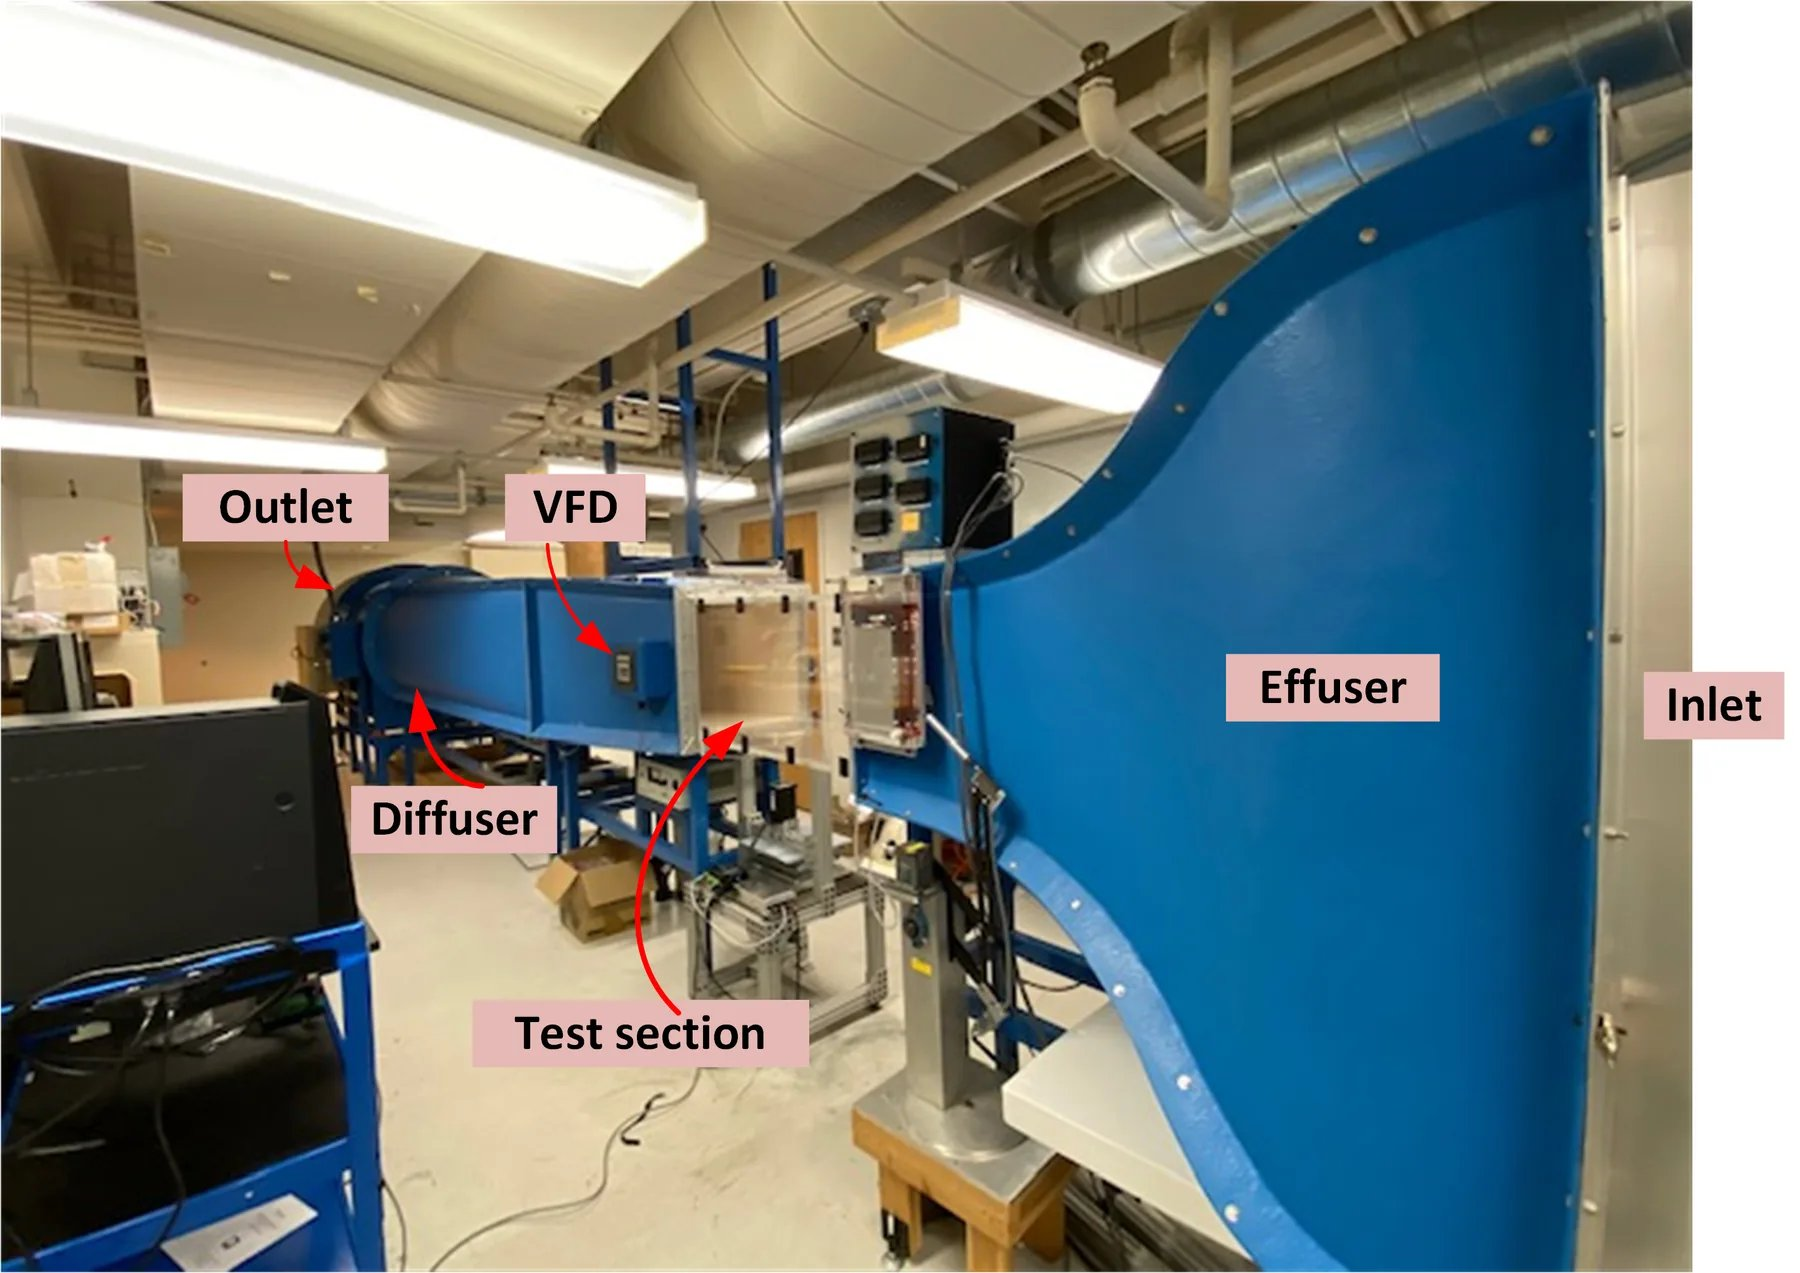
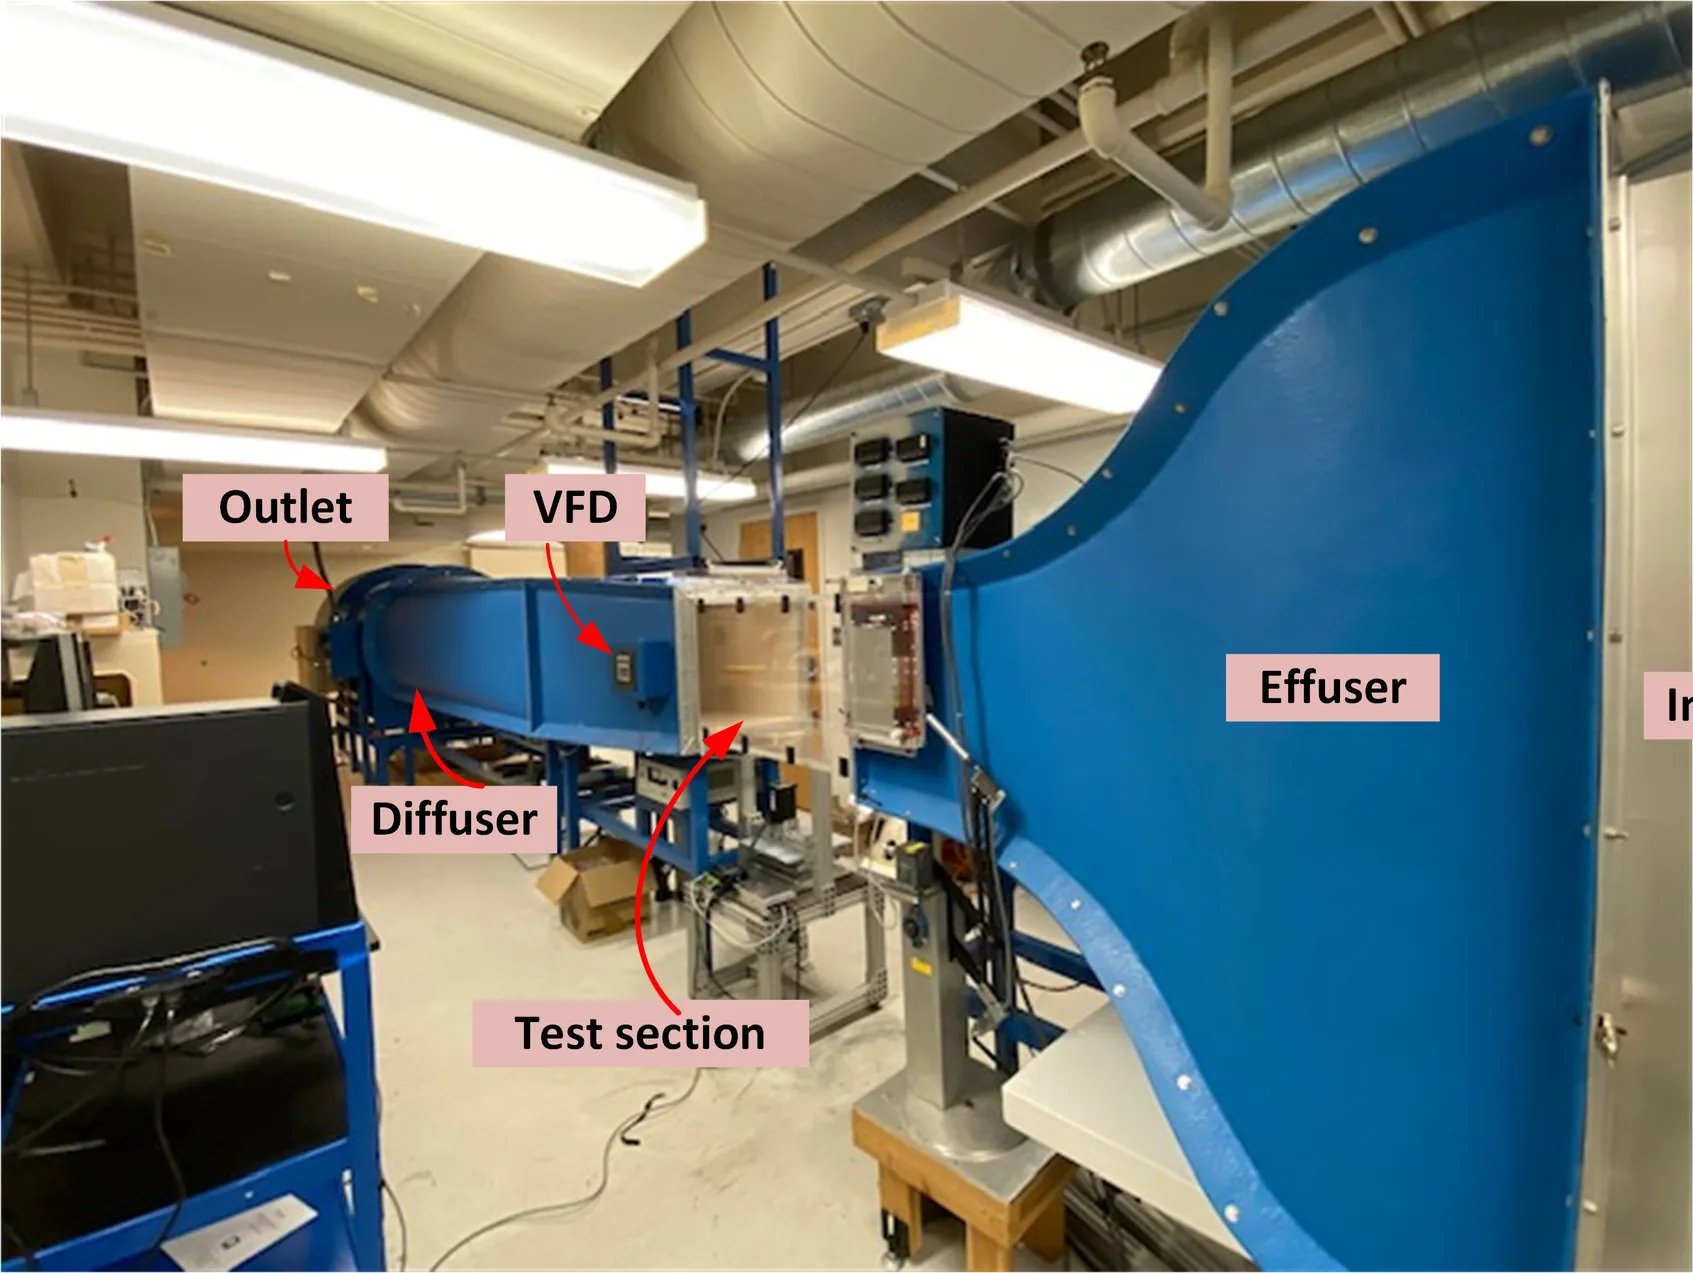
Facilities: matching wind and water tunnel cards
Title is now simply "Facilities". The wind tunnel and the ELD 6 x 6 in
flow-visualization water tunnel each get the same-size picture and a
spec table. The water tunnel uses a drawn illustration and ELD's
published spec (6 x 6 x 18 in test section, 0.1-1.0 ft/s). Trims the
white edge from the wind tunnel photo.

Claude-Session: https://claude.ai/code/session_01Gzc26U4eKxbA2kDH1P2TJ3

diff --git a/index.html b/index.html
@@ -286,10 +286,12 @@ figcaption{font-size:13.5px;line-height:1.5;margin-top:10px;color:var(--muted)}
 .project-video video{width:100%;aspect-ratio:16/9;background:#000;border-radius:2px}
 
 /* Facility */
-.facility{display:grid;grid-template-columns:minmax(0,480px) minmax(0,1fr);gap:clamp(24px,4vw,56px);align-items:start}
-.fac-specs{display:grid;gap:28px;max-width:620px}
-.fac-specs h3{font-size:24px}
-.facility img{width:100%;border-radius:3px}
+.fac-grid{display:grid;grid-template-columns:repeat(2,minmax(0,1fr));gap:clamp(20px,3vw,36px);align-items:start}
+.fac-card{display:grid;gap:14px}
+.fac-media{margin:0;aspect-ratio:2/1;background:var(--ink-2);border:1px solid var(--rule-dark);border-radius:3px;overflow:hidden}
+.fac-media.light{background:#F4F5F3}
+.fac-media img{width:100%;height:100%;object-fit:contain}
+.fac-card h3{font-size:26px;margin-top:4px}
 .spec-table{width:100%;border-collapse:collapse;font-size:15px;margin-top:8px}
 .spec-table th,.spec-table td{text-align:left;padding:11px 0;border-bottom:1px solid var(--rule-dark);vertical-align:top}
 .spec-table th{font:500 12px var(--mono);letter-spacing:.08em;text-transform:uppercase;color:var(--on-ink-muted);width:40%;padding-right:12px;padding-top:14px}
@@ -355,9 +357,8 @@ dialog.lightbox .close{position:absolute;right:8px;top:8px;width:38px;height:38p
   .caps{grid-template-columns:repeat(3,minmax(0,1fr))}
 }
 @media (max-width:1020px){
-  .study-body,.facility,.hero-grid{grid-template-columns:1fr}
+  .study-body,.hero-grid{grid-template-columns:1fr}
   .study-body>div:first-child{max-width:640px}
-  .facility>figure{max-width:560px}
   .inst{grid-template-columns:1fr}
   .people{grid-template-columns:1fr 1fr;grid-template-rows:none;aspect-ratio:auto}
   .people figure{aspect-ratio:4/3}
@@ -386,6 +387,7 @@ dialog.lightbox .close{position:absolute;right:8px;top:8px;width:38px;height:38p
   .study-head{grid-template-columns:auto 1fr}
   .study-head .tags{grid-column:1/-1}
   .cards2{grid-template-columns:1fr}
+  .fac-grid{grid-template-columns:1fr}
   .people{grid-template-columns:1fr}
   .people figure:first-child{grid-column:auto}
   .labs{grid-template-columns:1fr}
@@ -854,33 +856,34 @@ dialog.lightbox .close{position:absolute;right:8px;top:8px;width:38px;height:38p
 <section class="band dark" id="facility" aria-labelledby="fac-title">
   <div class="wrap">
     <div class="section-head">
-      <div class="eyebrow">Facilities</div>
-      <h2 id="fac-title">Two tunnels, air and water</h2>
-      <p class="muted lede">A low-speed wind tunnel for aerodynamic measurements and a small water tunnel for flow visualization.</p>
+      <div class="eyebrow">Wind tunnel and water tunnel</div>
+      <h2 id="fac-title">Facilities</h2>
     </div>
-    <div class="facility">
-      <figure>
-        <img src="assets/img/tunnel-labeled.jpg" alt="The blue open-circuit wind tunnel with labels for the inlet, effuser, test section, diffuser, outlet and variable frequency drive" width="1800" height="1273" loading="lazy">
-        <figcaption>The wind tunnel. Air enters at the inlet, speeds up through the effuser into the test section, then slows in the diffuser. A variable frequency drive (VFD) sets fan speed.</figcaption>
-      </figure>
-      <div class="fac-specs">
-        <section aria-labelledby="fac-wind">
-          <h3 id="fac-wind">Wind tunnel</h3>
-          <table class="spec-table">
-            <tr><th scope="row">Test section</th><td>18 × 18 × 36 in<br><span class="muted">45.7 × 45.7 × 91.4 cm (W × H × L)</span></td></tr>
-            <tr><th scope="row">Speed range</th><td>Below 3.1 m/s to above 67.1 m/s<br><span class="muted">&lt;10 ft/s to &gt;220 ft/s, open-ended bounds per manufacturer</span></td></tr>
-            <tr><th scope="row">Layout</th><td>Open circuit, variable-speed fan, 6.25 : 1 contraction</td></tr>
-            <tr><th scope="row">Access</th><td>Transparent walls for laser diagnostics</td></tr>
-          </table>
-        </section>
-        <section aria-labelledby="fac-water">
-          <h3 id="fac-water">EFD water tunnel</h3>
-          <table class="spec-table">
-            <tr><th scope="row">Test section</th><td>6 × 6 in<br><span class="muted">15.2 × 15.2 cm</span></td></tr>
-            <tr><th scope="row">Use</th><td>Flow visualization</td></tr>
-          </table>
-        </section>
-      </div>
+    <div class="fac-grid">
+      <article class="fac-card" aria-labelledby="fac-wind">
+        <figure class="fac-media">
+          <img src="assets/img/tunnel-labeled.jpg" alt="The blue open-circuit wind tunnel with labels for the inlet, effuser, test section, diffuser, outlet and variable frequency drive" width="1693" height="1273" loading="lazy">
+        </figure>
+        <h3 id="fac-wind">Wind tunnel</h3>
+        <table class="spec-table">
+          <tr><th scope="row">Test section</th><td>18 × 18 × 36 in<br><span class="muted">45.7 × 45.7 × 91.4 cm (W × H × L)</span></td></tr>
+          <tr><th scope="row">Speed range</th><td>Below 3.1 m/s to above 67.1 m/s<br><span class="muted">&lt;10 ft/s to &gt;220 ft/s, open-ended bounds per manufacturer</span></td></tr>
+          <tr><th scope="row">Layout</th><td>Open circuit, variable-speed fan, 6.25 : 1 contraction</td></tr>
+          <tr><th scope="row">Access</th><td>Transparent walls for laser diagnostics</td></tr>
+        </table>
+      </article>
+      <article class="fac-card" aria-labelledby="fac-water">
+        <figure class="fac-media light">
+          <img src="assets/img/water-tunnel-illustration.svg" alt="Illustration of a recirculating flow-visualization water tunnel with a settling chamber, contraction, transparent test section, return leg and pump" width="600" height="300" loading="lazy">
+        </figure>
+        <h3 id="fac-water">Water tunnel</h3>
+        <table class="spec-table">
+          <tr><th scope="row">Type</th><td>ELD recirculating flow-visualization tunnel</td></tr>
+          <tr><th scope="row">Test section</th><td>6 × 6 × 18 in<br><span class="muted">15.2 × 15.2 × 45.7 cm (W × H × L)</span></td></tr>
+          <tr><th scope="row">Flow speed</th><td>0.1 to 1.0 ft/s<br><span class="muted">0.03 to 0.30 m/s, set by pump speed</span></td></tr>
+          <tr><th scope="row">Use</th><td>Dye flow visualization</td></tr>
+        </table>
+      </article>
     </div>
   </div>
 </section>
